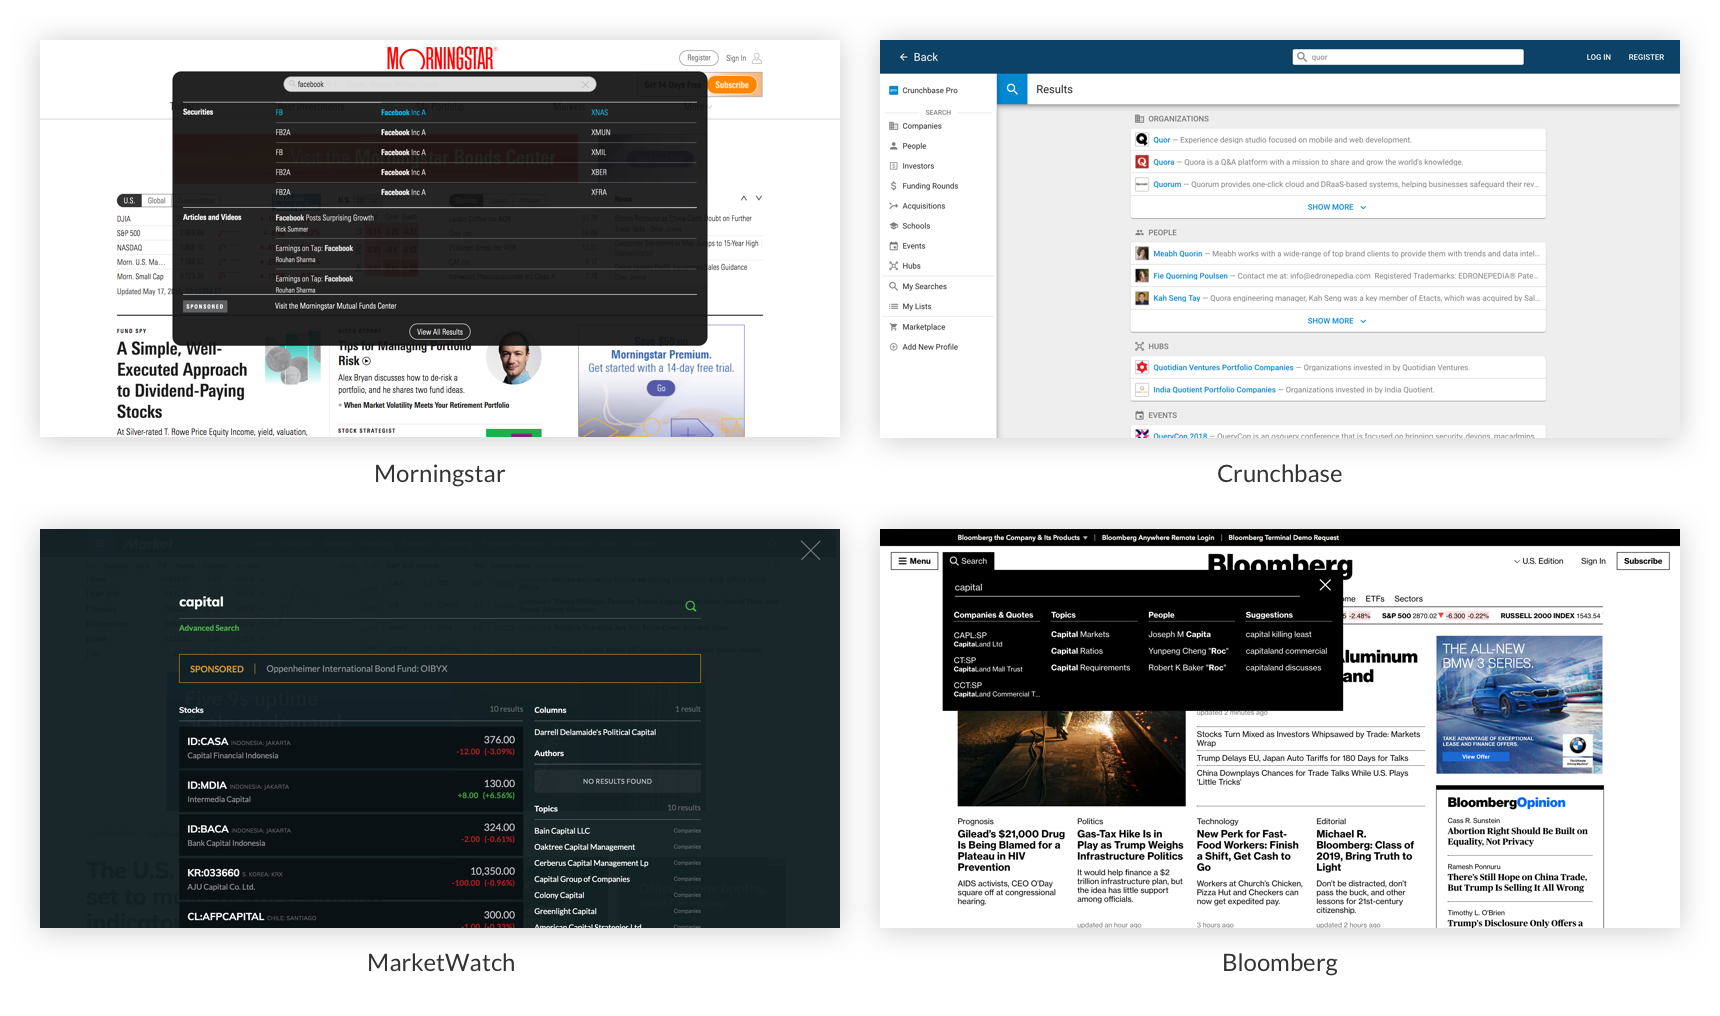
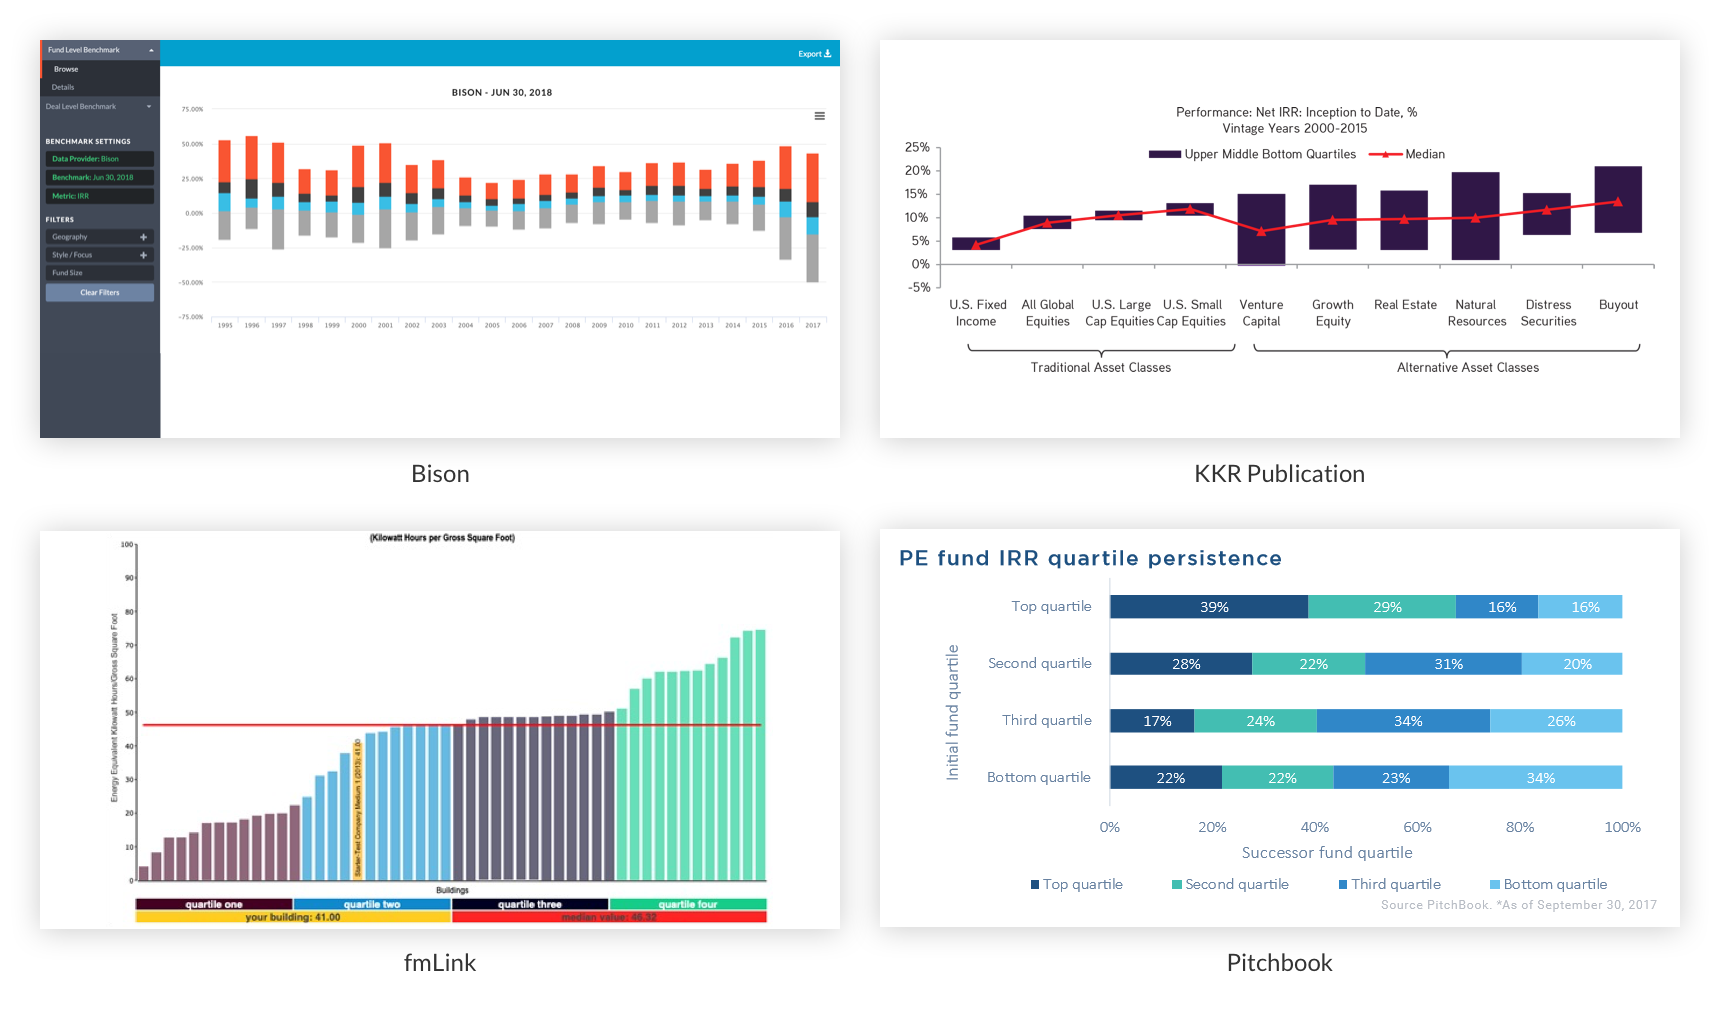
new image
new image update

diff --git a/probenchmarks.html b/probenchmarks.html
@@ -144,7 +144,7 @@
 					<div class="paragraphHeader">Competitive Analysis</div>
 				</div>
 				<div data-aos="fade-up" class="offset-md-1 col-md-10">
-					<img class="w-100" src="images/PreqinPro/Benchmarks/benchmarkCompetitiveAnalysis.svg">
+					<img class="w-100" src="images/PreqinPro/Benchmarks/benchmarkCompetitiveAnalysis.png">
 				</div>
 				<div class="offset-md-3 col-md-6">
 					<p>
